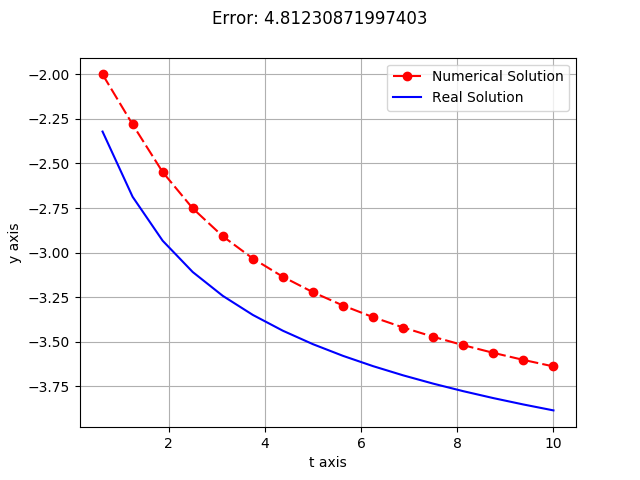
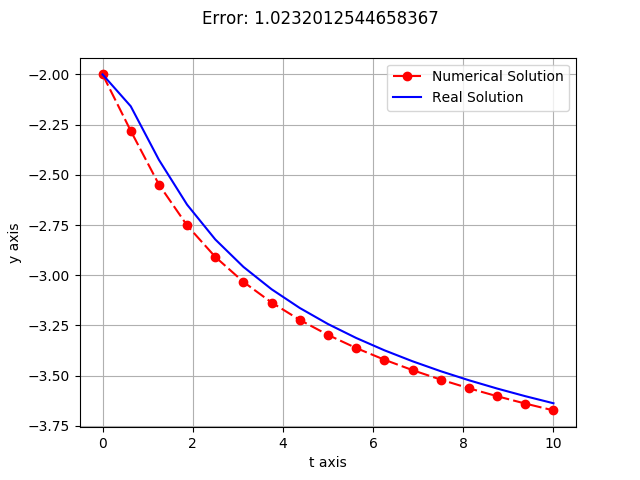
python files updated

diff --git a/project/code/pyRun/pyRun_euler.py b/project/code/pyRun/pyRun_euler.py
@@ -40,14 +40,13 @@ def make_make(file):
 
 # Calculates the real solution and places the solutions into the real_sol numPy array
 def real_solution(real_sol, increment):
-	
-	iteration = 1
+	t = 0
 	
 	#solution formula: y(t) = -( (2ln(t^2 + 1) + 4) )^(1/2)
 	for i, index in enumerate (real_sol):
-		iteration = i + 1
-		real_sol[i] = -( 2 * np.log( (iteration**2) + 1 ) +4 )**(.5)
-	
+		real_sol[i] = -( 2 * np.log( (t**2) + 1 ) +4 )**(.5)
+		t = t + increment
+		
 def calculate_error(datFile, outFile):
 	
 	# Get the number of grid points from the datFile
@@ -56,16 +55,16 @@ def calculate_error(datFile, outFile):
 	t_increment = 10/num
 	
 	#create numPy array with number of indices
-	Numerical_Soln_y = np.zeros(num)
-	Numerical_Soln_t = np.zeros(num)
-	Real_Soln = np.zeros(num)
+	Numerical_Soln_y = np.zeros(num+1)
+	Numerical_Soln_t = np.zeros(num+1)
+	Real_Soln = np.zeros(num+1)
 	error = 0
 	t_val = 0
 	
 	#initialize numPy array with values from datFile
 	with open (datFile, 'r') as f:
 		index = 0
-		while index < num:
+		while index <= num:
 			line = f.readline()
 			current_line = line.split()
 			t_val = float(current_line[0])
@@ -78,11 +77,6 @@ def calculate_error(datFile, outFile):
 	
 	for i, index in enumerate (Real_Soln):
 		error = error + abs(Real_Soln[i] - Numerical_Soln_y[i])
-		
-#	print (Numerical_Soln_y)
-#	print (Numerical_Soln_t)
-#	print (Real_Soln)
-#	print (error)
 	
 	plot_euler(datFile, outFile, Numerical_Soln_y, Numerical_Soln_t, Real_Soln, error)
 	
